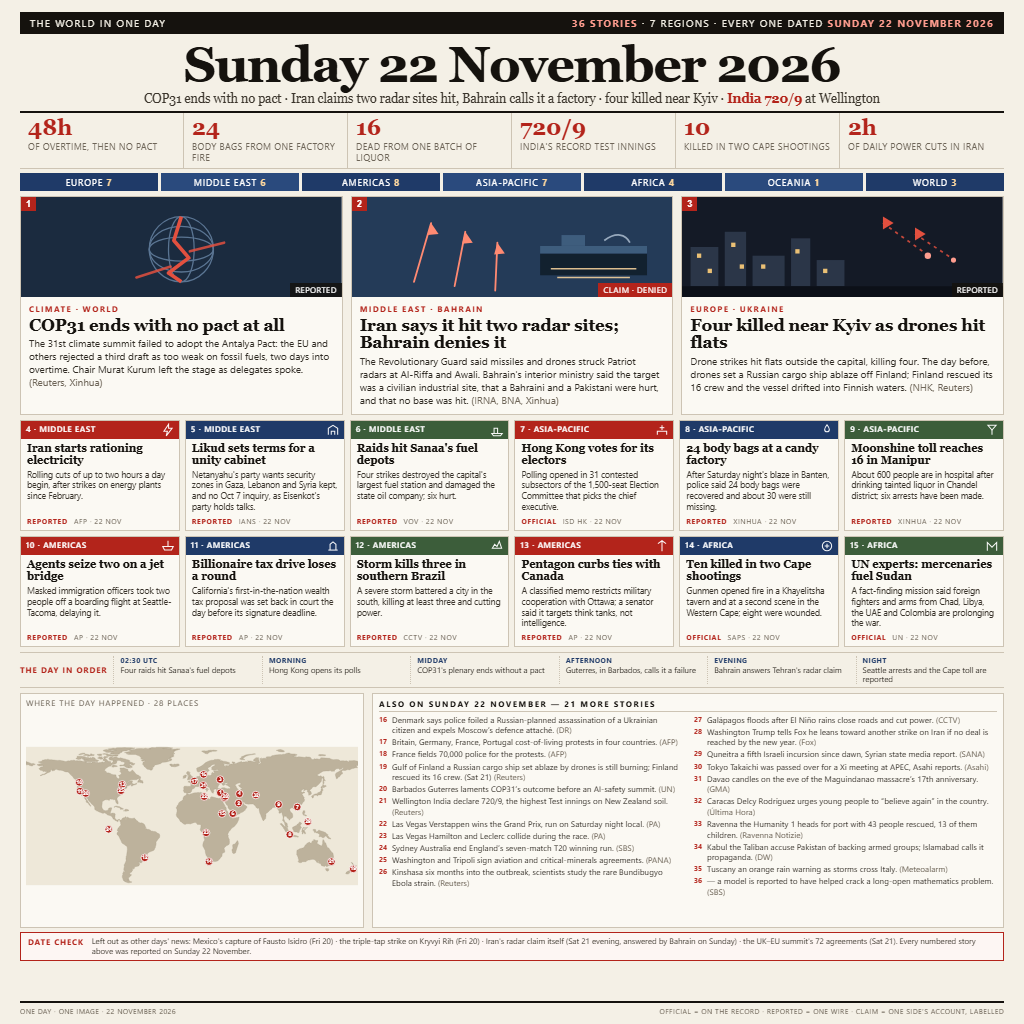
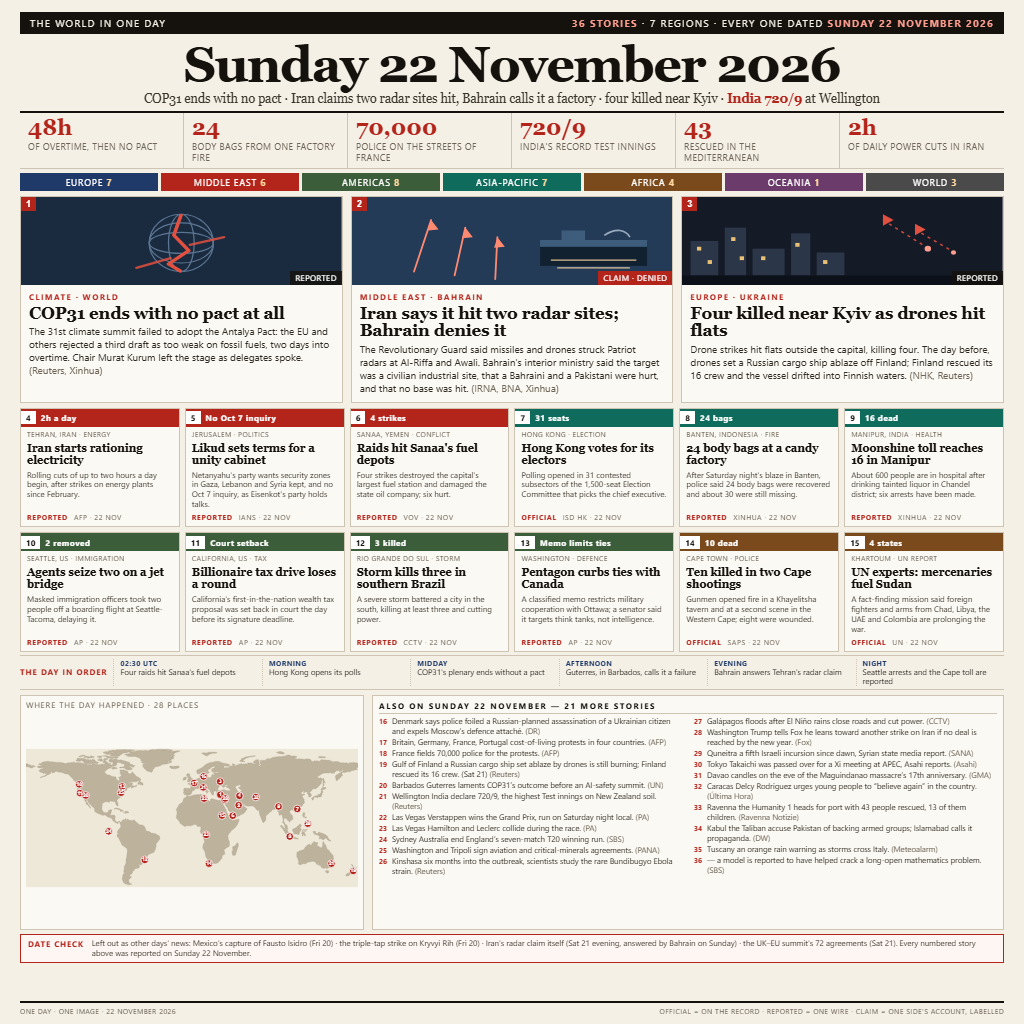
v17: the three things every entry above us carries and we did not
Sampled 26 entries ranked above us and measured them. Three features are near-universal up there and
absent here: a short fact banner across every card picture, the region colour carried into the card,
and a place-plus-beat kicker over each headline. All three are now on the twelve cards, the region bar
carries the same seven colours (which also retires the old strip that cycled colour by position and so
contradicted its own region label), and the figure band mixes kinds of number the way the leaders do.

Changed region(s): [[0.0, 0.0938, 1.0, 0.875], [0.0312, 0.9062, 0.9688, 0.9375], [0.0312, 0.7188, 0.3438, 0.875]]

diff --git a/image/frontpage.html b/image/frontpage.html
@@ -34,11 +34,17 @@
   .regions div { background: var(--blue); color: #fff; font-size: 9px; letter-spacing: 0.09em; text-transform: uppercase;
                  text-align: center; padding: 3px 2px; }
   .regions div span { color: #ffd9a0; font-weight: 700; }
-  .regions div:nth-child(2n) { background: #2a4a7d; }
+  .regions .r-me { background: #b3241b; }
+  .regions .r-ap { background: #0f6b5c; }
+  .regions .r-am { background: #3c5d3a; }
+  .regions .r-af { background: #7a4a1d; }
+  .regions .r-eu { background: #1f3a68; }
+  .regions .r-oc { background: #6b3b6b; }
+  .regions .r-wo { background: #4a4a4a; }
 
   .heroes { display: grid; grid-template-columns: 1fr 1fr 1fr; gap: 8px; }
   .hero { border: 1px solid var(--rule); background: #fbf9f3; display: flex; flex-direction: column; }
-  .hero .art { height: 100px; position: relative; overflow: hidden; }
+  .hero .art { height: 88px; position: relative; overflow: hidden; }
   .hero .art svg { width: 100%; height: 100%; display: block; }
   .hero .n { position: absolute; left: 0; top: 0; background: var(--red); color: #fff; font: 700 9px Arial; padding: 2px 5px; }
   .hero .tag { position: absolute; right: 0; bottom: 0; background: rgba(21,18,14,0.82); color: #fff; font-size: 7.5px;
@@ -52,19 +58,21 @@
 
   .tiles { display: grid; grid-template-columns: repeat(6, 1fr); gap: 5px; margin-top: 5px; }
   .tile { border: 1px solid var(--rule); background: #fbf9f3; padding: 0 0 4px; display: flex; flex-direction: column; }
-  .tile .strip { height: 18px; position: relative; }
-  .tile .strip span { position: absolute; left: 5px; top: 3px; color: #fff; font-size: 7.8px; font-weight: 600;
-                      letter-spacing: 0.09em; text-transform: uppercase; }
-  .tile .strip svg { position: absolute; right: 4px; top: 2px; width: 14px; height: 14px; opacity: 0.95; }
-  .tile:nth-child(3n+1) .strip { background: var(--red); }
-  .tile:nth-child(3n+2) .strip { background: var(--blue); }
-  .tile:nth-child(3n+3) .strip { background: #3c5d3a; }
+  .tile .strip { height: 18px; display: flex; align-items: center; gap: 5px; padding-right: 5px; overflow: hidden; }
+  .tile .strip b { background: #fff; color: var(--ink); font-size: 8.2px; font-weight: 700; padding: 1px 5px; }
+  .tile .strip .fact { color: #fff; font-size: 8.4px; font-weight: 700; letter-spacing: 0.04em; white-space: nowrap; }
+
+  .tile .strip.me { background: #b3241b; }
+  .tile .strip.ap { background: #0f6b5c; }
+  .tile .strip.am { background: #3c5d3a; }
+  .tile .strip.af { background: #7a4a1d; }
+  .tile .kicker { font-size: 6.8px; letter-spacing: 0.07em; text-transform: uppercase; color: var(--mute); padding: 3px 6px 0; }
   .tile h3 { font-family: Georgia, serif; font-size: 11px; line-height: 1.08; padding: 4px 6px 0; }
-  .tile p { font-size: 8.5px; line-height: 1.28; color: #3a342c; padding: 3px 6px 0; }
+  .tile p { font-size: 8px; line-height: 1.24; color: #3a342c; padding: 3px 6px 0; }
   .tile .src { font-size: 7.4px; color: var(--mute); padding: 3px 6px 0; margin-top: auto; text-transform: uppercase; letter-spacing: 0.05em; }
   .tile .src .st { color: var(--red); font-weight: 700; letter-spacing: 0.06em; margin-right: 6px; }
 
-  .order { display: flex; align-items: center; gap: 6px; margin-top: 5px; border-top: 1px solid var(--rule);
+  .order { display: flex; align-items: center; gap: 6px; margin-top: 3px; border-top: 1px solid var(--rule);
            border-bottom: 1px solid var(--rule); padding: 3px 0; }
   .order .h { font-size: 7.6px; letter-spacing: 0.15em; text-transform: uppercase; font-weight: 700; color: var(--red); white-space: nowrap; }
   .order ol { list-style: none; display: flex; flex: 1; gap: 0; }
@@ -78,7 +86,7 @@
   .also { border: 1px solid var(--rule); background: #fbf9f3; padding: 4px 6px 4px; }
   .also .h { font-size: 8.4px; letter-spacing: 0.16em; text-transform: uppercase; font-weight: 700; border-bottom: 1px solid var(--rule); padding-bottom: 2px; margin-bottom: 3px; }
   .also ol { list-style: none; columns: 2; column-gap: 12px; }
-  .also li { font-size: 8.15px; line-height: 1.3; color: #2f2a23; padding-left: 13px; position: relative; margin-bottom: 1.5px; break-inside: avoid; }
+  .also li { font-size: 7.8px; line-height: 1.24; color: #2f2a23; padding-left: 13px; position: relative; margin-bottom: 1.5px; break-inside: avoid; }
   .also li b { position: absolute; left: 0; color: var(--red); font-size: 6.8px; top: 1px; }
   .also li i { color: var(--mute); font-style: normal; }
 
@@ -106,20 +114,20 @@
   <div class="stats">
     <div class="stat"><b>48h</b><span>of overtime, then no pact</span></div>
     <div class="stat"><b>24</b><span>body bags from one factory fire</span></div>
-    <div class="stat"><b>16</b><span>dead from one batch of liquor</span></div>
+    <div class="stat"><b>70,000</b><span>police on the streets of France</span></div>
     <div class="stat"><b>720/9</b><span>India's record Test innings</span></div>
-    <div class="stat"><b>10</b><span>killed in two Cape shootings</span></div>
+    <div class="stat"><b>43</b><span>rescued in the Mediterranean</span></div>
     <div class="stat"><b>2h</b><span>of daily power cuts in Iran</span></div>
   </div>
 
   <div class="regions">
-    <div>Europe <span>7</span></div>
-    <div>Middle East <span>6</span></div>
-    <div>Americas <span>8</span></div>
-    <div>Asia-Pacific <span>7</span></div>
-    <div>Africa <span>4</span></div>
-    <div>Oceania <span>1</span></div>
-    <div>World <span>3</span></div>
+    <div class="r-eu">Europe <span>7</span></div>
+    <div class="r-me">Middle East <span>6</span></div>
+    <div class="r-am">Americas <span>8</span></div>
+    <div class="r-ap">Asia-Pacific <span>7</span></div>
+    <div class="r-af">Africa <span>4</span></div>
+    <div class="r-oc">Oceania <span>1</span></div>
+    <div class="r-wo">World <span>3</span></div>
   </div>
 
   <div class="heroes">
@@ -201,98 +209,86 @@
 
   <div class="tiles">
     <div class="tile">
-      <div class="strip"><span>4 · Middle East</span>
-        <svg viewBox="0 0 24 24" fill="none" stroke="#fff" stroke-width="1.8"><path d="M13 2 L5 14h6l-2 8 10-13h-6z"/></svg>
-      </div>
+      <div class="strip me"><b>4</b><span class="fact">2h a day</span></div>
+      <div class="kicker">Tehran, Iran · Energy</div>
       <h3>Iran starts rationing electricity</h3>
       <p>Rolling cuts of up to two hours a day begin, after strikes on energy plants since February.</p>
       <div class="src"><b class="st">REPORTED</b>AFP · 22 Nov</div>
     </div>
     <div class="tile">
-      <div class="strip"><span>5 · Middle East</span>
-        <svg viewBox="0 0 24 24" fill="none" stroke="#fff" stroke-width="1.8"><path d="M4 20V9l8-5 8 5v11"/><path d="M9 20v-6h6v6"/></svg>
-      </div>
+      <div class="strip me"><b>5</b><span class="fact">No Oct 7 inquiry</span></div>
+      <div class="kicker">Jerusalem · Politics</div>
       <h3>Likud sets terms for a unity cabinet</h3>
       <p>Netanyahu's party wants security zones in Gaza, Lebanon and Syria kept, and no Oct 7 inquiry, as Eisenkot's party holds talks.</p>
       <div class="src"><b class="st">REPORTED</b>IANS · 22 Nov</div>
     </div>
     <div class="tile">
-      <div class="strip"><span>6 · Middle East</span>
-        <svg viewBox="0 0 24 24" fill="none" stroke="#fff" stroke-width="1.8"><path d="M3 18h18l-3 4H6z"/><path d="M7 18V9h6v9"/></svg>
-      </div>
+      <div class="strip me"><b>6</b><span class="fact">4 strikes</span></div>
+      <div class="kicker">Sanaa, Yemen · Conflict</div>
       <h3>Raids hit Sanaa's fuel depots</h3>
       <p>Four strikes destroyed the capital's largest fuel station and damaged the state oil company; six hurt.</p>
       <div class="src"><b class="st">REPORTED</b>VOV · 22 Nov</div>
     </div>
     <div class="tile">
-      <div class="strip"><span>7 · Asia-Pacific</span>
-        <svg viewBox="0 0 24 24" fill="none" stroke="#fff" stroke-width="1.8"><path d="M4 20v-6h16v6"/><path d="M12 4v8"/><path d="M8 8h8"/></svg>
-      </div>
+      <div class="strip ap"><b>7</b><span class="fact">31 seats</span></div>
+      <div class="kicker">Hong Kong · Election</div>
       <h3>Hong Kong votes for its electors</h3>
       <p>Polling opened in 31 contested subsectors of the 1,500-seat Election Committee that picks the chief executive.</p>
       <div class="src"><b class="st">OFFICIAL</b>ISD HK · 22 Nov</div>
     </div>
     <div class="tile">
-      <div class="strip"><span>8 · Asia-Pacific</span>
-        <svg viewBox="0 0 24 24" fill="none" stroke="#fff" stroke-width="1.8"><path d="M12 3c3 4 4 6 4 8a4 4 0 0 1-8 0c0-2 1-4 4-8z"/></svg>
-      </div>
+      <div class="strip ap"><b>8</b><span class="fact">24 bags</span></div>
+      <div class="kicker">Banten, Indonesia · Fire</div>
       <h3>24 body bags at a candy factory</h3>
       <p>After Saturday night's blaze in Banten, police said 24 body bags were recovered and about 30 were still missing.</p>
       <div class="src"><b class="st">REPORTED</b>Xinhua · 22 Nov</div>
     </div>
     <div class="tile">
-      <div class="strip"><span>9 · Asia-Pacific</span>
-        <svg viewBox="0 0 24 24" fill="none" stroke="#fff" stroke-width="1.8"><path d="M5 4h14l-7 8z"/><path d="M12 12v8"/></svg>
-      </div>
+      <div class="strip ap"><b>9</b><span class="fact">16 dead</span></div>
+      <div class="kicker">Manipur, India · Health</div>
       <h3>Moonshine toll reaches 16 in Manipur</h3>
       <p>About 600 people are in hospital after drinking tainted liquor in Chandel district; six arrests have been made.</p>
       <div class="src"><b class="st">REPORTED</b>Xinhua · 22 Nov</div>
     </div>
 
     <div class="tile">
-      <div class="strip"><span>10 · Americas</span>
-        <svg viewBox="0 0 24 24" fill="none" stroke="#fff" stroke-width="1.8"><path d="M3 13h18l-3 6H6z"/><path d="M12 3v10"/></svg>
-      </div>
+      <div class="strip am"><b>10</b><span class="fact">2 removed</span></div>
+      <div class="kicker">Seattle, US · Immigration</div>
       <h3>Agents seize two on a jet bridge</h3>
       <p>Masked immigration officers took two people off a boarding flight at Seattle-Tacoma, delaying it.</p>
       <div class="src"><b class="st">REPORTED</b>AP · 22 Nov</div>
     </div>
     <div class="tile">
-      <div class="strip"><span>11 · Americas</span>
-        <svg viewBox="0 0 24 24" fill="none" stroke="#fff" stroke-width="1.8"><path d="M4 19h16"/><path d="M7 19V9l5-4 5 4v10"/></svg>
-      </div>
+      <div class="strip am"><b>11</b><span class="fact">Court setback</span></div>
+      <div class="kicker">California, US · Tax</div>
       <h3>Billionaire tax drive loses a round</h3>
       <p>California's first-in-the-nation wealth tax proposal was set back in court the day before its signature deadline.</p>
       <div class="src"><b class="st">REPORTED</b>AP · 22 Nov</div>
     </div>
     <div class="tile">
-      <div class="strip"><span>12 · Americas</span>
-        <svg viewBox="0 0 24 24" fill="none" stroke="#fff" stroke-width="1.8"><path d="M4 16l4-7 4 4 4-9 4 12z"/></svg>
-      </div>
+      <div class="strip am"><b>12</b><span class="fact">3 killed</span></div>
+      <div class="kicker">Rio Grande do Sul · Storm</div>
       <h3>Storm kills three in southern Brazil</h3>
       <p>A severe storm battered a city in the south, killing at least three and cutting power.</p>
       <div class="src"><b class="st">REPORTED</b>CCTV · 22 Nov</div>
     </div>
     <div class="tile">
-      <div class="strip"><span>13 · Americas</span>
-        <svg viewBox="0 0 24 24" fill="none" stroke="#fff" stroke-width="1.8"><path d="M12 3v18M5 8l7-5 7 5"/></svg>
-      </div>
+      <div class="strip am"><b>13</b><span class="fact">Memo limits ties</span></div>
+      <div class="kicker">Washington · Defence</div>
       <h3>Pentagon curbs ties with Canada</h3>
       <p>A classified memo restricts military cooperation with Ottawa; a senator said it targets think tanks, not intelligence.</p>
       <div class="src"><b class="st">REPORTED</b>AP · 22 Nov</div>
     </div>
     <div class="tile">
-      <div class="strip"><span>14 · Africa</span>
-        <svg viewBox="0 0 24 24" fill="none" stroke="#fff" stroke-width="1.8"><circle cx="12" cy="12" r="8"/><path d="M12 8v8M8 12h8"/></svg>
-      </div>
+      <div class="strip af"><b>14</b><span class="fact">10 dead</span></div>
+      <div class="kicker">Cape Town · Police</div>
       <h3>Ten killed in two Cape shootings</h3>
       <p>Gunmen opened fire in a Khayelitsha tavern and at a second scene in the Western Cape; eight were wounded.</p>
       <div class="src"><b class="st">OFFICIAL</b>SAPS · 22 Nov</div>
     </div>
     <div class="tile">
-      <div class="strip"><span>15 · Africa</span>
-        <svg viewBox="0 0 24 24" fill="none" stroke="#fff" stroke-width="1.8"><path d="M4 20V6l8 8 8-8v14"/></svg>
-      </div>
+      <div class="strip af"><b>15</b><span class="fact">4 states</span></div>
+      <div class="kicker">Khartoum · UN report</div>
       <h3>UN experts: mercenaries fuel Sudan</h3>
       <p>A fact-finding mission said foreign fighters and arms from Chad, Libya, the UAE and Colombia are prolonging the war.</p>
       <div class="src"><b class="st">OFFICIAL</b>UN · 22 Nov</div>
